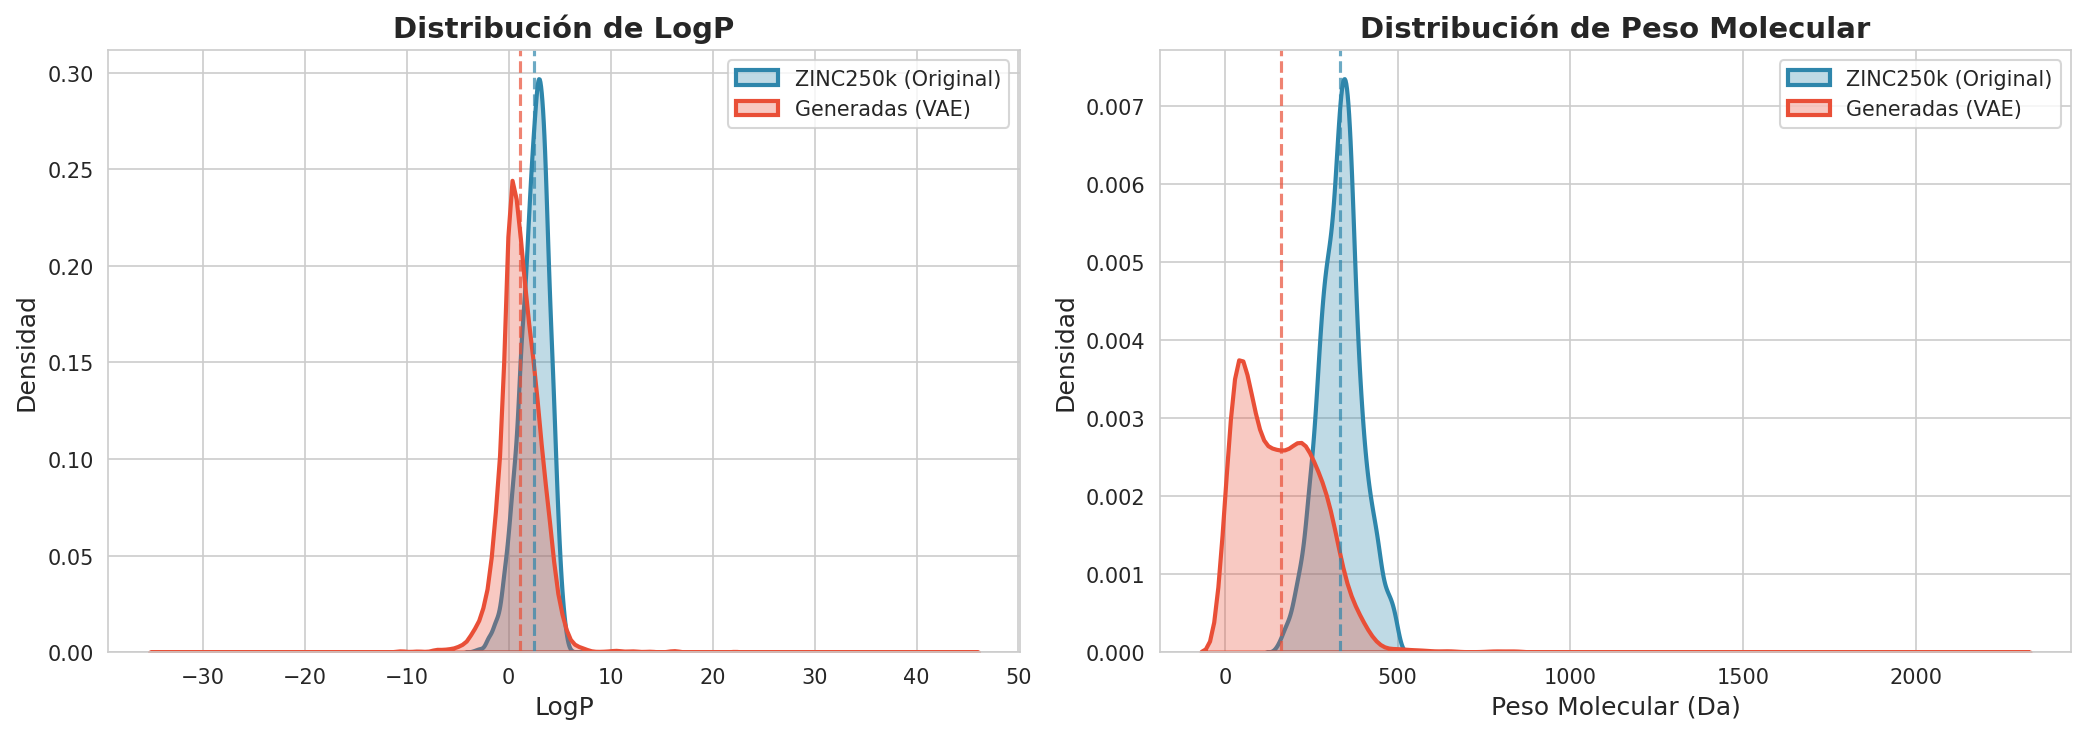
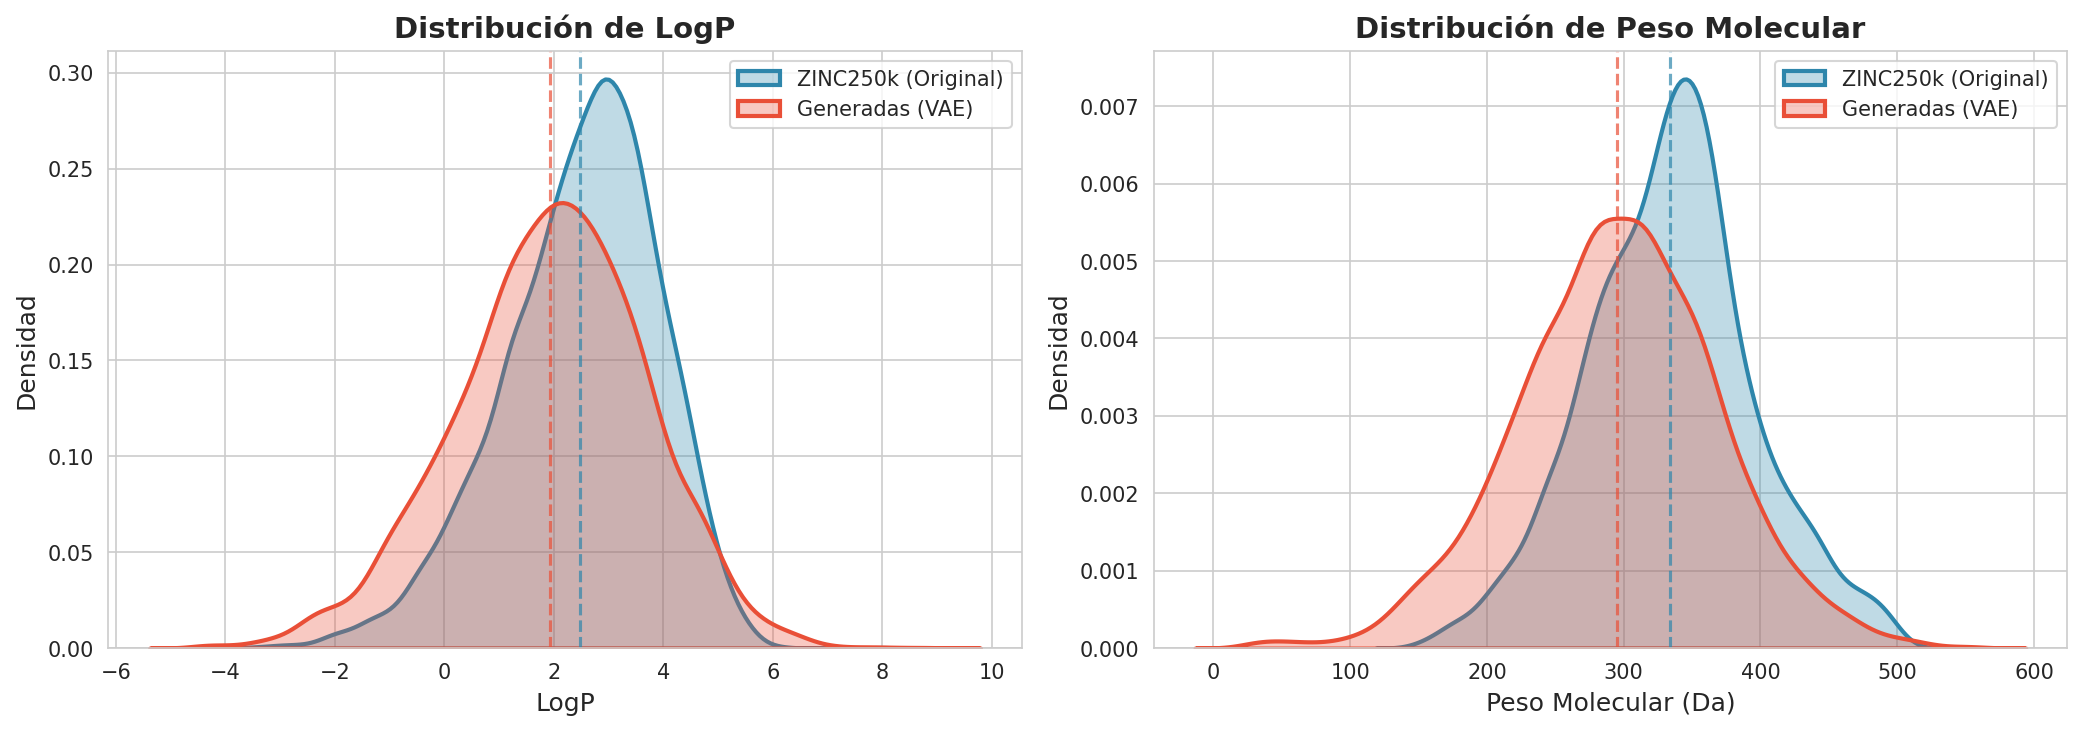
Update KL_END value and simplify ELBO calculations in training process

diff --git a/vae_model.py b/vae_model.py
@@ -7,24 +7,18 @@ class MolecularVAE(nn.Module):
         super(MolecularVAE, self).__init__()
         
         # --- 1. ENCODER ---
-        # Convierte tokens a vectores densos
         self.embedding = nn.Embedding(vocab_size, embed_size, padding_idx=0)
-        # Procesa secuencia y extrae representación
         self.encoder_rnn = nn.GRU(embed_size, hidden_size, batch_first=True)
-        # Proyecta a media del espacio latente
-        self.fc_mu = nn.Linear(hidden_size, latent_size)
-        # Proyecta a log-varianza del espacio latente
-        self.fc_logvar = nn.Linear(hidden_size, latent_size)
+        self.fc_mu = nn.Linear(hidden_size, latent_size)       # Media μ
+        self.fc_logvar = nn.Linear(hidden_size, latent_size)   # Log-varianza σ²
         
         # --- 2. DECODER ---
-        # Convierte vector latente a estado inicial del decoder
-        self.decoder_input = nn.Linear(latent_size, hidden_size)
-        # Genera secuencia token por token
+        self.decoder_input = nn.Linear(latent_size, hidden_size)  # z → h₀ del decoder
         self.decoder_rnn = nn.GRU(embed_size, hidden_size, batch_first=True)
-        # Proyecta a puntajes crudos sobre vocabulario (scores sin normalizar)
-        self.fc_out = nn.Linear(hidden_size, vocab_size)
+        self.fc_out = nn.Linear(hidden_size, vocab_size)          # Logits sobre vocabulario
         
     def reparameterize(self, mu, logvar):
+        """Truco de reparametrización: z = μ + σ * ε, con ε ~ N(0, I)."""
         if self.training:
             std = torch.exp(0.5 * logvar)
             eps = torch.randn_like(std)
@@ -32,9 +26,8 @@ class MolecularVAE(nn.Module):
         else:
             return mu
 
-    def forward(self, x, sos_idx=None):
-        # x shape: [batch, seq_len]
-        # x ya contiene: [SOS, token1, token2, ..., EOS, PAD, PAD, ...]
+    def forward(self, x):
+        # x: [batch, seq_len] con formato [SOS, t1, t2, ..., EOS, PAD, PAD, ...]
         
         # --- ENCODING ---
         embed = self.embedding(x)
@@ -46,36 +39,33 @@ class MolecularVAE(nn.Module):
         z = self.reparameterize(mu, logvar)
         
         # --- DECODING (Teacher Forcing) ---
-        
-        # 1. Preparar estado oculto inicial con z
-        h_decoder = self.decoder_input(z).unsqueeze(0)
-        
-        # 2. Preparar entradas del decoder (shifted inputs)
-        # La entrada ya tiene SOS al inicio, usamos x[:, :-1] como input
-        # y x[:, 1:] como target (predecir el siguiente token)
-        decoder_inputs = x[:, :-1]  # [SOS, t1, t2, ..., tn-1]
-        
-        # embeddeamos la entrada
-        embed_decoder = self.embedding(decoder_inputs)
-        
-        # Pasamos por la RNN
+        # Input del decoder: x[:, :-1] = [SOS, t1, ..., tn-1]
+        # Target esperado:   x[:, 1:]  = [t1, t2, ..., EOS, PAD...]
+        h_decoder = self.decoder_input(z).unsqueeze(0)    # Estado inicial h₀
+        embed_decoder = self.embedding(x[:, :-1])          # Embeddings shifted
         out, _ = self.decoder_rnn(embed_decoder, h_decoder)
-        prediction = self.fc_out(out) 
+        prediction = self.fc_out(out)  # [batch, seq_len-1, vocab_size]
         
         return prediction, mu, logvar
 
 def vae_loss_function(recon_x, x, mu, logvar, kl_weight, pad_idx=0):
     """
-    recon_x: predicciones [batch, seq_len-1, vocab_size]
-    x: secuencia original [batch, seq_len] con formato [SOS, t1, t2, ..., EOS, PAD...]
-    El target es x[:, 1:] (sin SOS, predecir desde t1 hasta el final)
+    Loss del VAE: L = Recon + β·KL
+    
+    Args:
+        recon_x: Logits del decoder [batch, seq_len-1, vocab_size]
+        x: Secuencia original [batch, seq_len] → [SOS, t1, ..., EOS, PAD...]
+        mu, logvar: Parámetros de la distribución latente q(z|x)
+        kl_weight: Factor β para KL annealing
+        pad_idx: Índice del token de padding (ignorado en cross-entropy)
+    
+    Returns:
+        (loss_total, recon_loss, kl_loss)
     """
     vocab_size = recon_x.size(-1)
-
-   # Target es x sin el primer token (SOS)
-    target = x[:, 1:]  # [batch, seq_len-1]
+    target = x[:, 1:]  # Target sin SOS: [t1, t2, ..., EOS, PAD...]
     
-    # Cross Entropy
+    # Reconstrucción: Cross-Entropy sumada sobre todos los tokens no-padding
     recon_loss = F.cross_entropy(
         recon_x.reshape(-1, vocab_size), 
         target.reshape(-1), 
@@ -83,7 +73,7 @@ def vae_loss_function(recon_x, x, mu, logvar, kl_weight, pad_idx=0):
         reduction='sum'
     )
     
-    # KL Divergence
+    # KL Divergence: D_KL(q(z|x) || p(z)), con p(z) = N(0, I)
     kld = -0.5 * torch.sum(1 + logvar - mu.pow(2) - logvar.exp())
     
     return recon_loss + (kl_weight * kld), recon_loss, kld

diff --git a/train.py b/train.py
@@ -22,7 +22,7 @@ EMBED_DIM = 128
 # KL ANNEALING 
 # Valores para el KL Annealing
 KL_START = 0 
-KL_END = 0.05       
+KL_END = 0.3      
 KL_ANNEAL_EPOCHS = 20 # Número de epochs para hacer annealing
 
 # Paths y dispositivo
@@ -85,8 +85,6 @@ def train():
         #  ENTRENAMIENTO 
         # Estadísticas por epoch    
         epoch_loss = 0
-        epoch_recon = 0  # Para ELBO
-        epoch_kl = 0     # Para ELBO
         correct_tokens = 0
         total_tokens = 0
         num_samples = 0  # Contar moléculas para ELBO
@@ -110,8 +108,6 @@ def train():
             
             # Acumular Loss 
             epoch_loss += loss.item()
-            epoch_recon += recon.item()  # Para ELBO
-            epoch_kl += kl.item()        # Para ELBO
             num_samples += x.size(0)     # Contar moléculas
             
             #  Cálculo de Accuracy de Reconstrucción
@@ -138,7 +134,7 @@ def train():
         # Estadísticas del Epoch de Train
         train_avg_loss = epoch_loss / total_tokens
         train_avg_acc = (correct_tokens / total_tokens) * 100 if total_tokens > 0 else 0
-        train_elbo = -(epoch_recon + epoch_kl) / num_samples  # ELBO por molécula
+        train_elbo = -epoch_loss / num_samples  # ELBO por molécula
         
         # Guardar en historial 
         history['train_loss'].append(train_avg_loss)
@@ -148,8 +144,6 @@ def train():
         #  VALIDACIÓN 
         model.eval()
         val_epoch_loss = 0
-        val_epoch_recon = 0  # Para ELBO
-        val_epoch_kl = 0     # Para ELBO
         val_correct_tokens = 0
         val_total_tokens = 0
         val_num_samples = 0  # Contar moléculas
@@ -164,8 +158,6 @@ def train():
                 # Calcular Loss
                 loss, recon, kl = vae_loss_function(prediction, x, mu, logvar, kl_weight)
                 val_epoch_loss += loss.item()
-                val_epoch_recon += recon.item()  # Para ELBO
-                val_epoch_kl += kl.item()        # Para ELBO
                 val_num_samples += x.size(0)     # Contar moléculas
                 
                 # Calcular Accuracy
@@ -181,7 +173,7 @@ def train():
         # Estadísticas de Validación
         val_avg_loss = val_epoch_loss / val_total_tokens if val_total_tokens > 0 else 0
         val_avg_acc = (val_correct_tokens / val_total_tokens) * 100 if val_total_tokens > 0 else 0
-        val_elbo = -(val_epoch_recon + val_epoch_kl) / val_num_samples  # ELBO por molécula
+        val_elbo = -val_epoch_loss / val_num_samples  # ELBO por molécula
         
         # Guardar en historial
         history['val_loss'].append(val_avg_loss)
